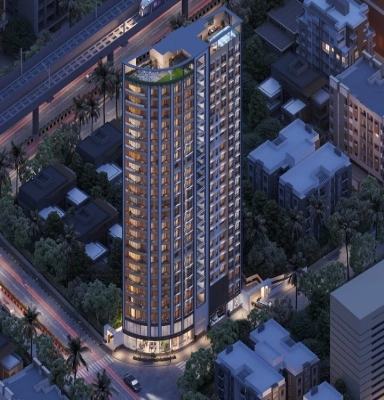
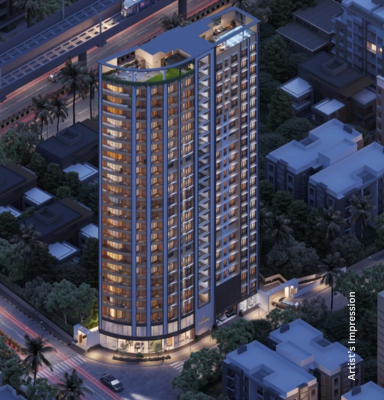
images

diff --git a/index.html b/index.html
@@ -276,8 +276,8 @@
 
                     <div class="swiper-slide">
                         <div class="banner__item banner__space ">
-                            <div class="banner__item-bg" data-desktop="assets/imgs/ah/b4.webp"
-                                data-mobile="assets/imgs/ah/1.jpg"></div>
+                            <div class="banner__item-bg" data-desktop="assets/imgs/ah-banner/bg-1.png"
+                                data-mobile="assets/imgs/ah-banner/1.png"></div>
                             <div class="container">
                                 <div class="banner__item__left-bg"></div>
                                 <div class="banner__item__right-bg"></div>
@@ -315,8 +315,8 @@
                     </div>
                     <div class="swiper-slide">
                         <div class="banner__item banner__space ">
-                            <div class="banner__item-bg" data-desktop="assets/imgs/ah/b5.webp"
-                                data-mobile="assets/imgs/ah/4copy.jpg"></div>
+                            <div class="banner__item-bg" data-desktop="assets/imgs/ah-banner/bg-2.png"
+                                data-mobile="assets/imgs/ah-banner/2.png"></div>
                             <div class="container">
                                 <div class="banner__item__left-bg"></div>
                                 <div class="banner__item__right-bg"></div>
@@ -354,8 +354,8 @@
                     </div>
                     <div class="swiper-slide">
                         <div class="banner__item banner__space ">
-                            <div class="banner__item-bg" data-desktop="assets/imgs/ah/b3.webp"
-                                data-mobile="assets/imgs/ah/2.jpg"></div>
+                            <div class="banner__item-bg" data-desktop="assets/imgs/ah-banner/bg-3.png"
+                                data-mobile="assets/imgs/ah-banner/3.png"></div>
                             <div class="container">
                                 <div class="banner__item__left-bg"></div>
                                 <div class="banner__item__right-bg"></div>
@@ -393,8 +393,8 @@
                     </div>
                     <div class="swiper-slide">
                         <div class="banner__item banner__space ">
-                            <div class="banner__item-bg" data-desktop="assets/imgs/ah/b2.webp"
-                                data-mobile="assets/imgs/ah/3.jpg"></div>
+                            <div class="banner__item-bg" data-desktop="assets/imgs/ah-banner/bg-4.png"
+                                data-mobile="assets/imgs/ah-banner/4.png"></div>
                             <div class="container">
                                 <div class="banner__item__left-bg"></div>
                                 <div class="banner__item__right-bg"></div>
@@ -432,8 +432,8 @@
                     </div>
                     <div class="swiper-slide">
                         <div class="banner__item banner__space ">
-                            <div class="banner__item-bg" data-desktop="assets/imgs/ah/b1.webp"
-                                data-mobile="assets/imgs/ah/5.jpg"></div>
+                            <div class="banner__item-bg" data-desktop="assets/imgs/ah-banner/bg-5.png"
+                                data-mobile="assets/imgs/ah-banner/5.png"></div>
                             <div class="container">
                                 <div class="banner__item__left-bg"></div>
                                 <div class="banner__item__right-bg"></div>
@@ -480,11 +480,11 @@
 
                     <div class="swiper-container gallery-thumbs">
                         <div class="swiper-wrapper">
-                            <div class="swiper-slide"><img loading="lazy" src="assets/imgs/ah/b4.webp" alt=""></div>
-                            <div class="swiper-slide"><img loading="lazy" src="assets/imgs/ah/b5.webp" alt=""></div>
-                            <div class="swiper-slide"><img loading="lazy" src="assets/imgs/ah/b3.webp" alt=""></div>
-                            <div class="swiper-slide"><img loading="lazy" src="assets/imgs/ah/b2.webp" alt=""></div>
-                            <div class="swiper-slide"><img loading="lazy" src="assets/imgs/ah/b1.webp" alt=""></div>
+                            <div class="swiper-slide"><img loading="lazy" src="assets/imgs/ah-banner/bg-1.png" alt=""></div>
+                            <div class="swiper-slide"><img loading="lazy" src="assets/imgs/ah-banner/bg-2.png" alt=""></div>
+                            <div class="swiper-slide"><img loading="lazy" src="assets/imgs/ah-banner/bg-3.png" alt=""></div>
+                            <div class="swiper-slide"><img loading="lazy" src="assets/imgs/ah-banner/bg-4.png" alt=""></div>
+                            <div class="swiper-slide"><img loading="lazy" src="assets/imgs/ah-banner/bg-5.png" alt=""></div>
                         </div>
                     </div>
                     <div class="banner__slider__arrow">
@@ -840,7 +840,7 @@
                     <div class="col-lg-6">
                         <div class="latest-project__item">
                             <div class="latest-project__media">
-                                <img class="wow clip-a-z" loading="lazy" src="assets/imgs/ah/interior-space.jpg"
+                                <img class="wow clip-a-z" loading="lazy" src="assets/imgs/ah-banner/interior-space.png"
                                     alt="image not found">
                                 <a class="icon" href="javascript:void(0)">
                                     <svg width="28" height="28" viewBox="0 0 28 28" fill="none"
@@ -861,7 +861,7 @@
                     <div class="col-lg-6">
                         <div class="latest-project__item">
                             <div class="latest-project__media">
-                                <img class="wow clip-a-z" src="assets/imgs/ah/swimming-pool.jpg" loading="lazy"
+                                <img class="wow clip-a-z" src="assets/imgs/ah-banner/swimming-pool.png" loading="lazy"
                                     alt="image not found">
                                 <a class="icon" href="javascript:void(0)">
                                     <svg width="28" height="28" viewBox="0 0 28 28" fill="none"
@@ -883,7 +883,7 @@
                     <div class="col-lg-6">
                         <div class="latest-project__item">
                             <div class="latest-project__media">
-                                <img class="wow clip-a-z" src="assets/imgs/ah/playground.jpg" loading="lazy"
+                                <img class="wow clip-a-z" src="assets/imgs/ah-banner/playground.png" loading="lazy"
                                     alt="image not found">
                                 <a class="icon" href="javascript:void(0)">
                                     <svg width="28" height="28" viewBox="0 0 28 28" fill="none"
@@ -905,7 +905,7 @@
                     <div class="col-lg-6">
                         <div class="latest-project__item">
                             <div class="latest-project__media">
-                                <img class="wow clip-a-z" src="assets/imgs/ah/stargazing.png" loading="lazy"
+                                <img class="wow clip-a-z" src="assets/imgs/ah-banner/stargazing.png" loading="lazy"
                                     alt="image not found">
                                 <a class="icon" href="javascript:void(0)">
                                     <svg width="28" height="28" viewBox="0 0 28 28" fill="none"
@@ -1126,7 +1126,7 @@
                 <section class="master-premium">
                     <div class="container">
                         <div class="mp-frame">
-                            <img src="assets/imgs/ah/f-master.webp" alt="Master Plan">
+                            <img src="assets/imgs/ah/f-m.png" alt="Master Plan">
                         </div>
                     </div>
                 </section>
